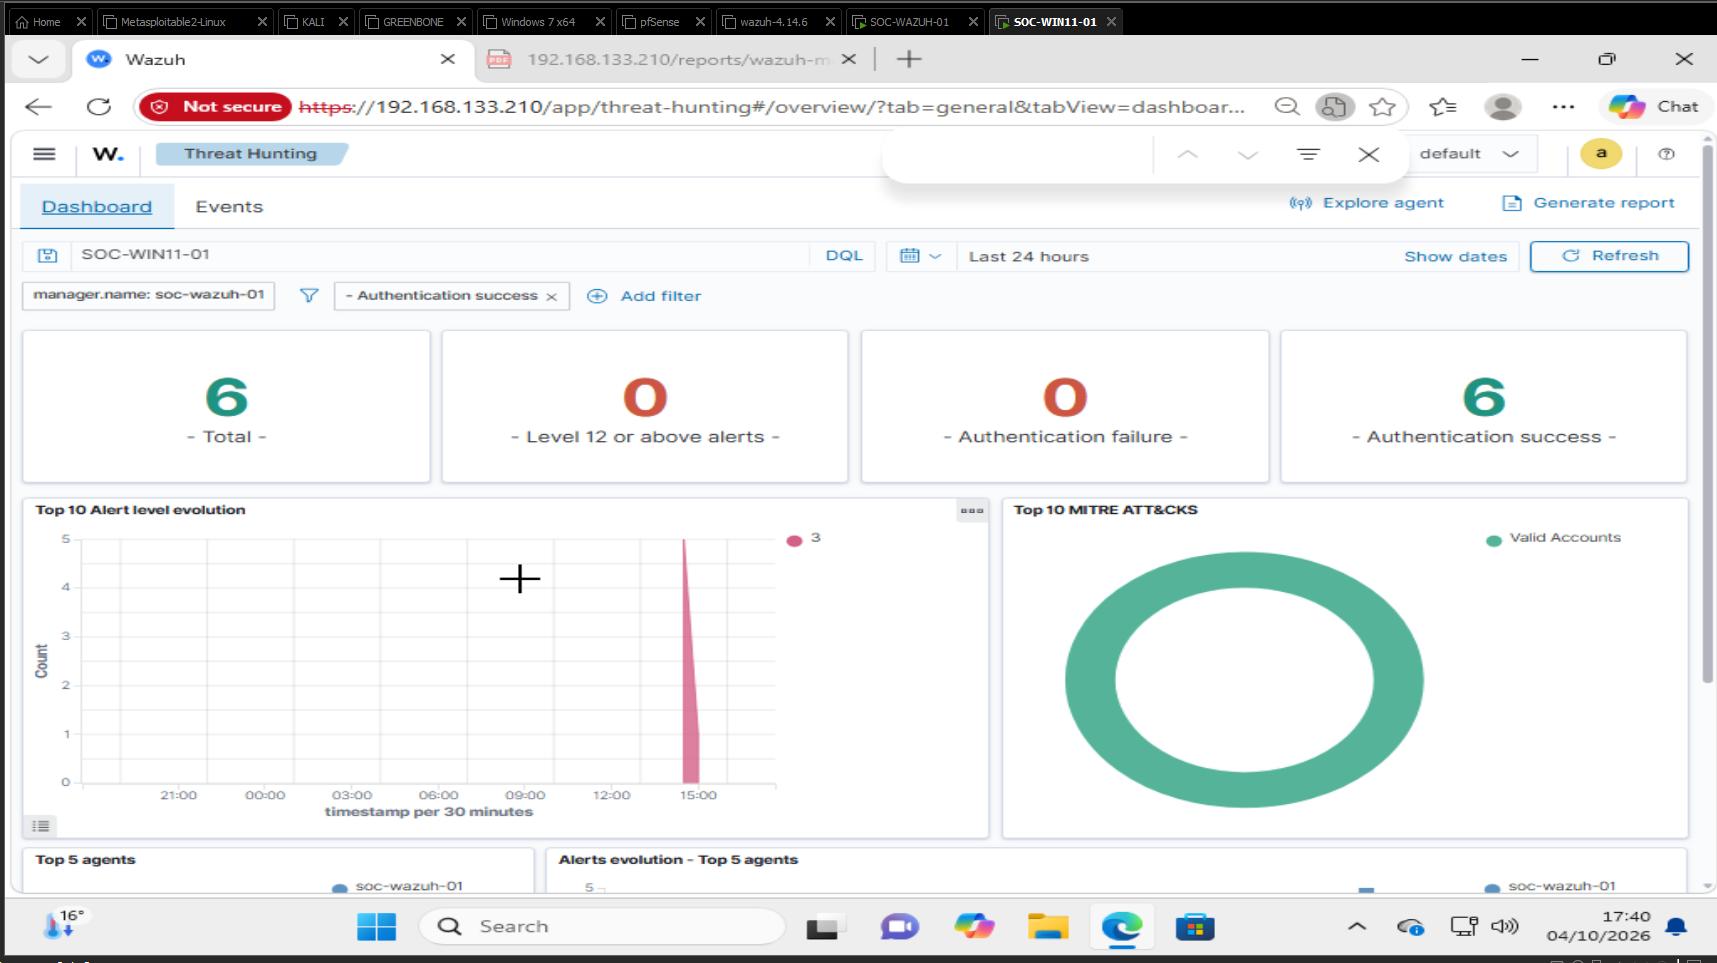
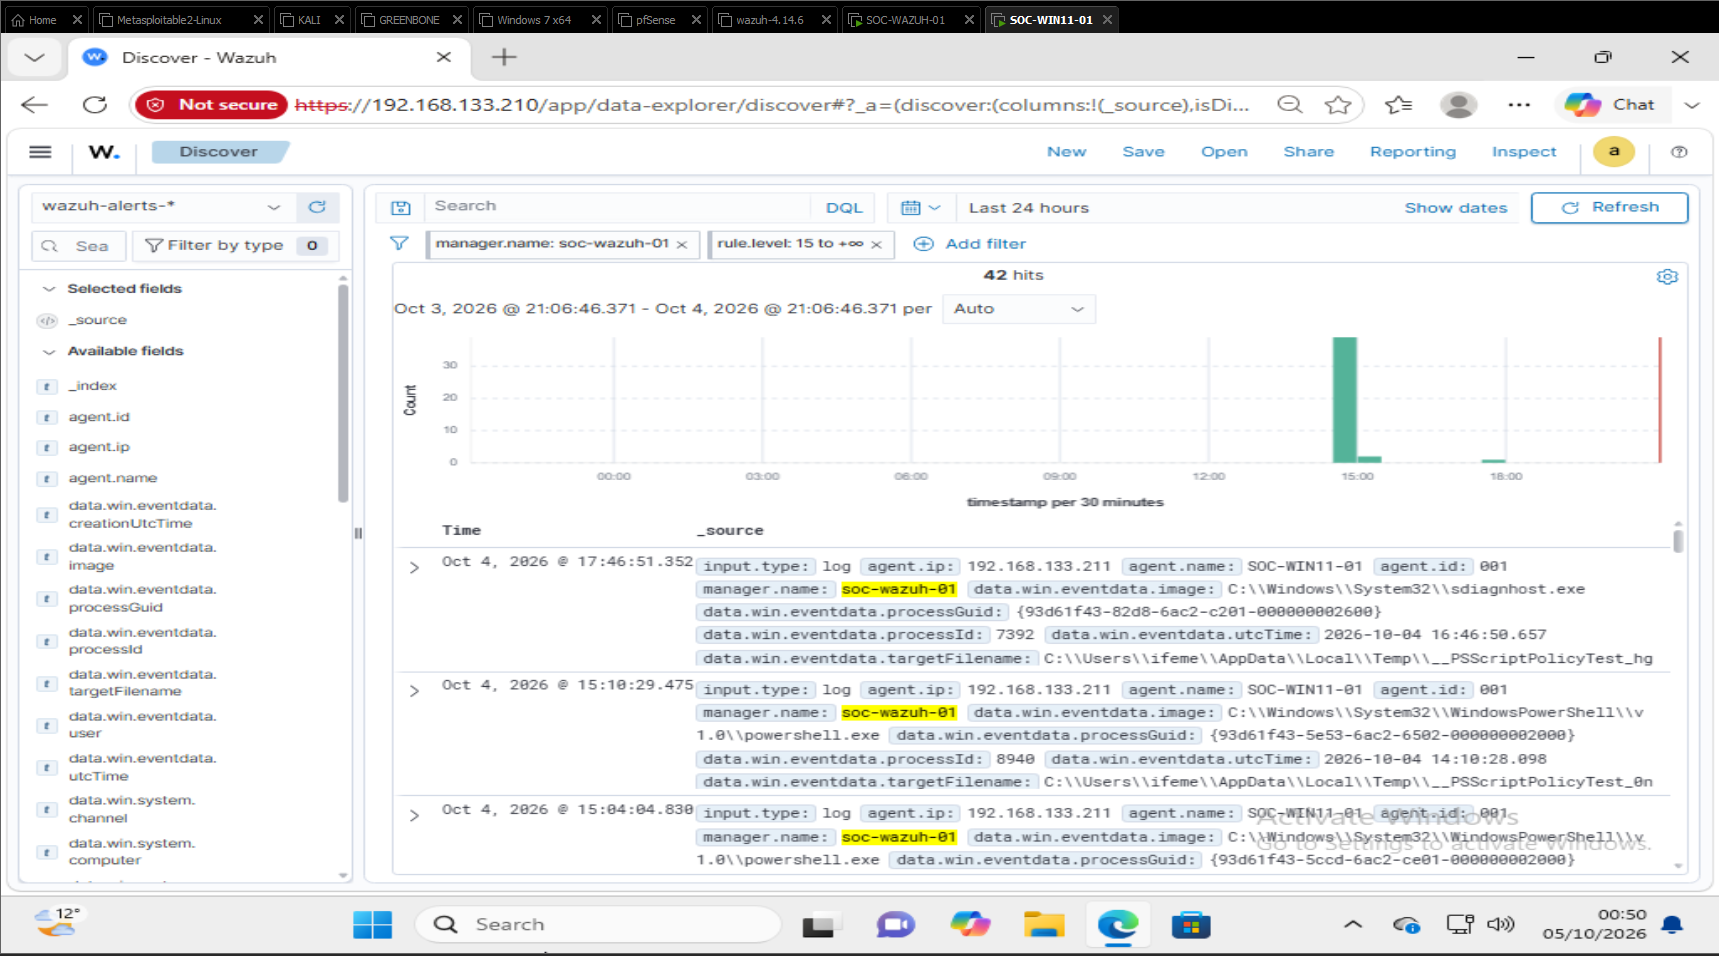
first commit of phase 5

Changed region(s): [[0.0, 0.0, 1.0, 1.0]]

diff --git a/Docs/build-logs.md b/Docs/build-logs.md
@@ -129,3 +129,13 @@ Configured the Wazuh Windows agent to collect the Sysmon event channel:
   <location>Microsoft-Windows-Sysmon/Operational</location>
   <log_format>eventchannel</log_format>
 </localfile>
+```
+
+Checked Windows was auditing successful and failed login accordingly.
+
+# Phase 5 - Investigation 01:Failed Windows Authentication
+
+## Objective
+
+- Investigation  began at 17:07:49 5th October 2026
+- 
